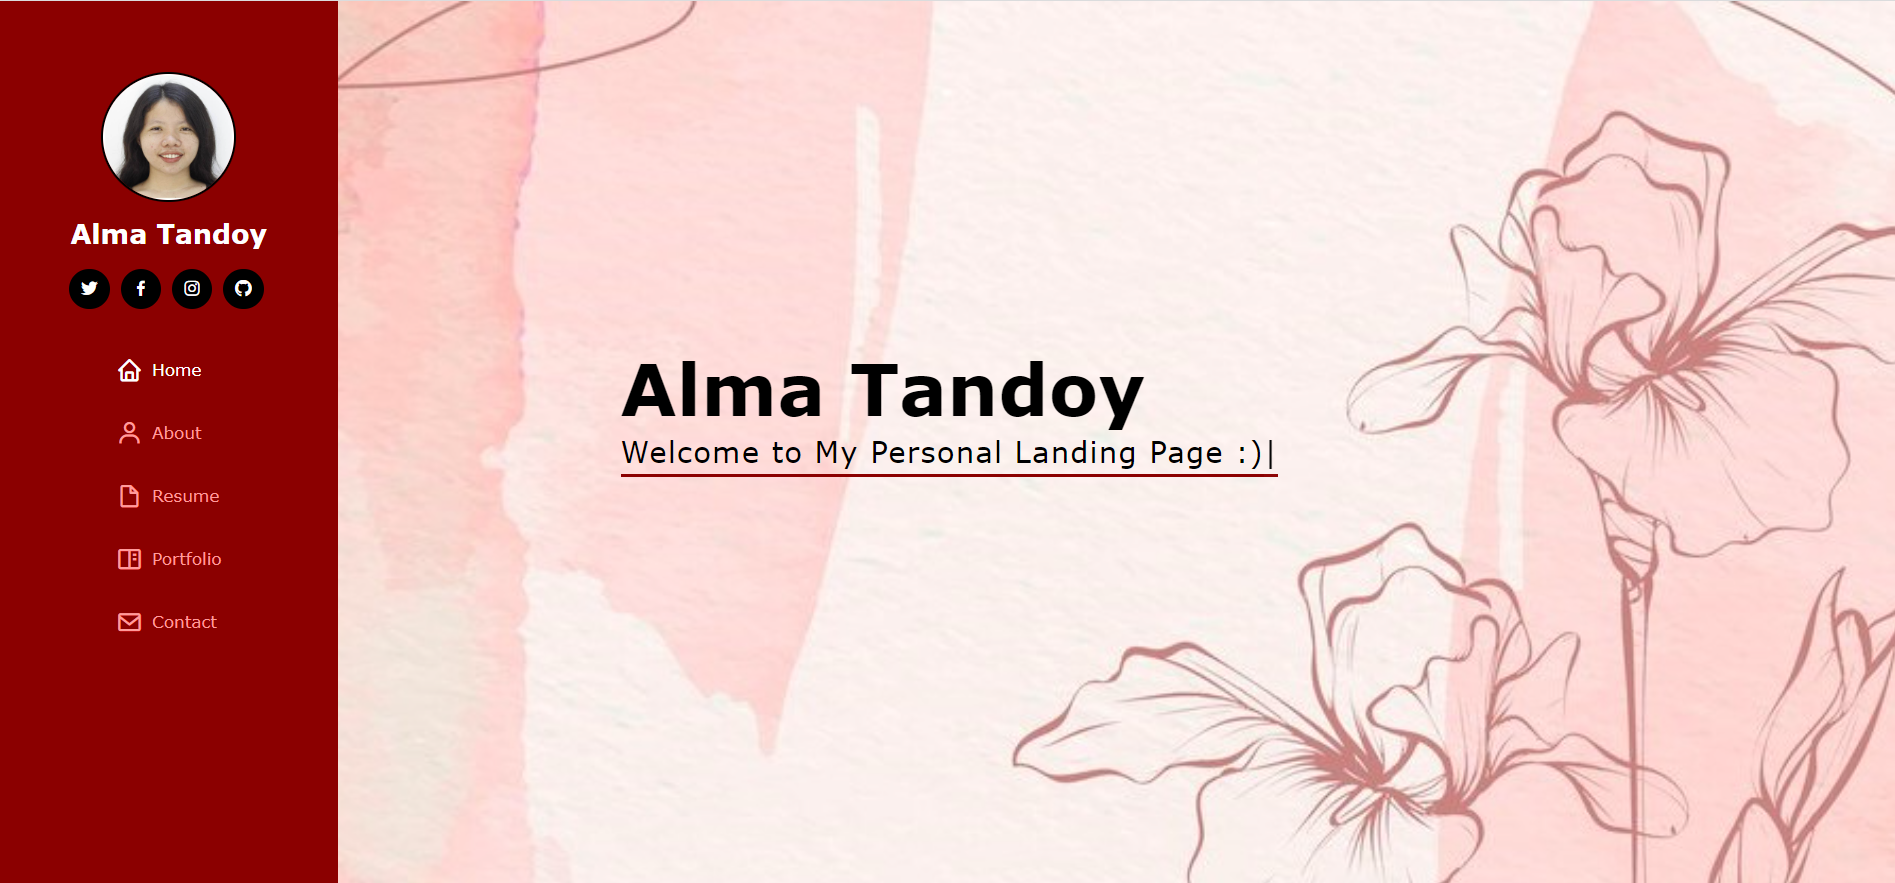
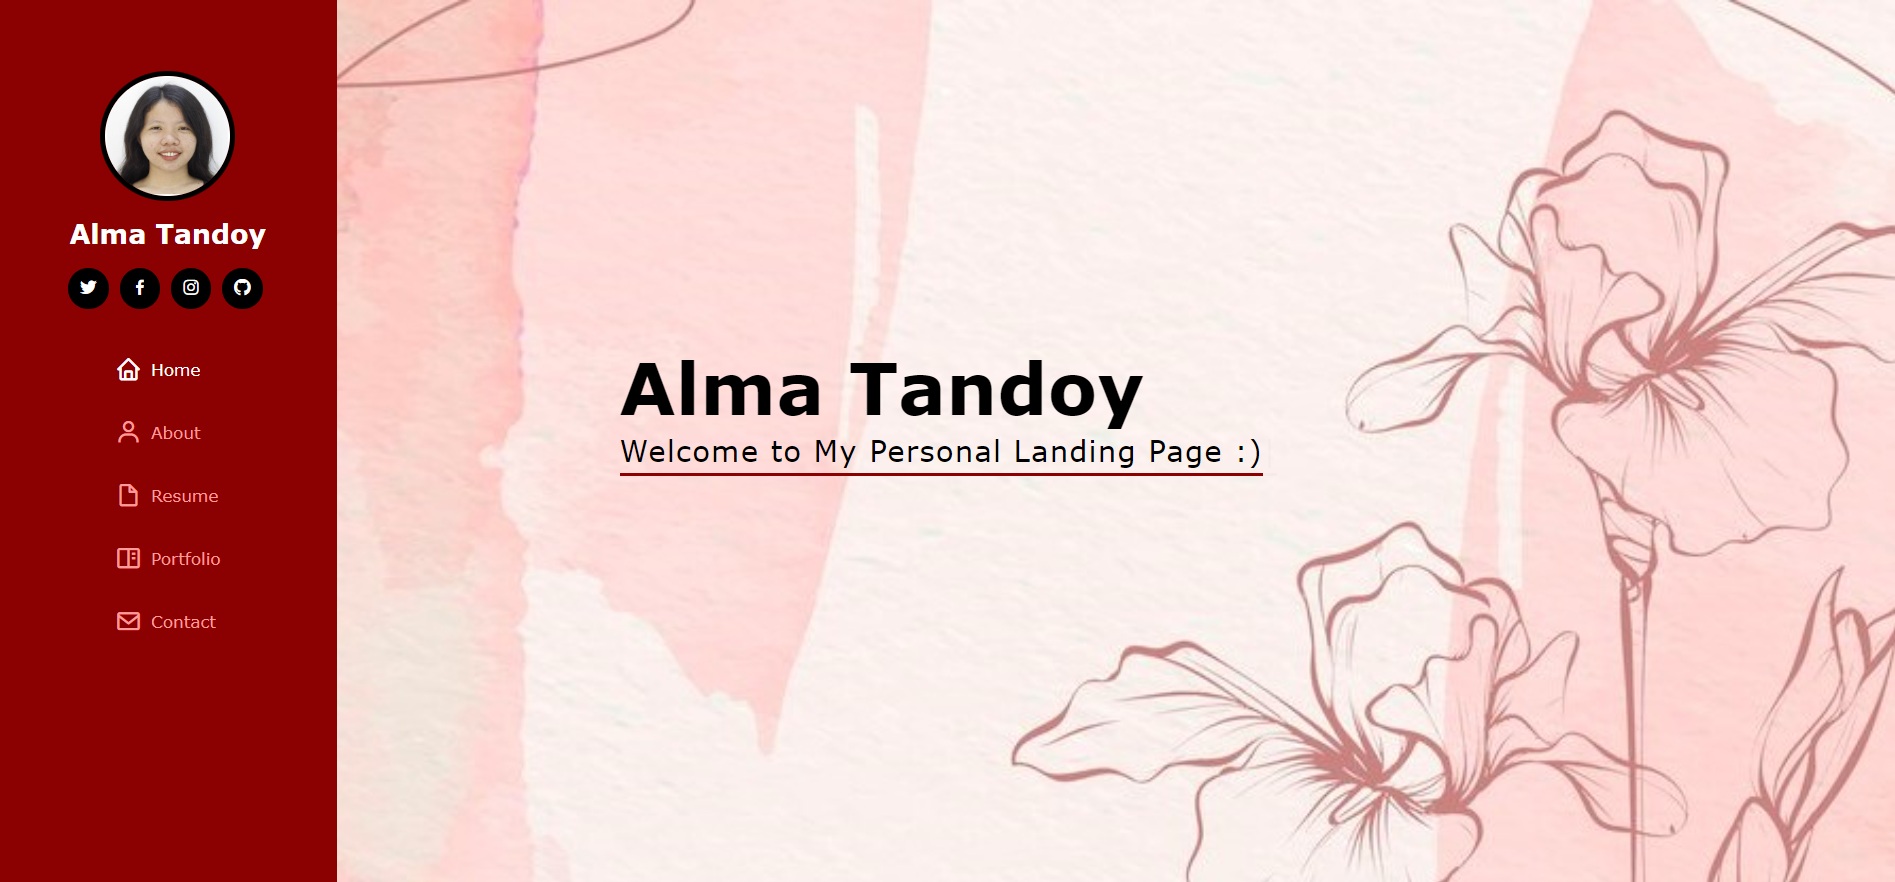
New Update Landing Page

diff --git a/assets/css/style.css b/assets/css/style.css
@@ -87,7 +87,7 @@ h6 {
   margin: 15px auto;
   display: block;
   width: 120px;
-  border: 2px solid rgb(0, 0, 0);
+  border: 5px solid rgb(0, 0, 0);
 }
 
 #header .profile h1 {
